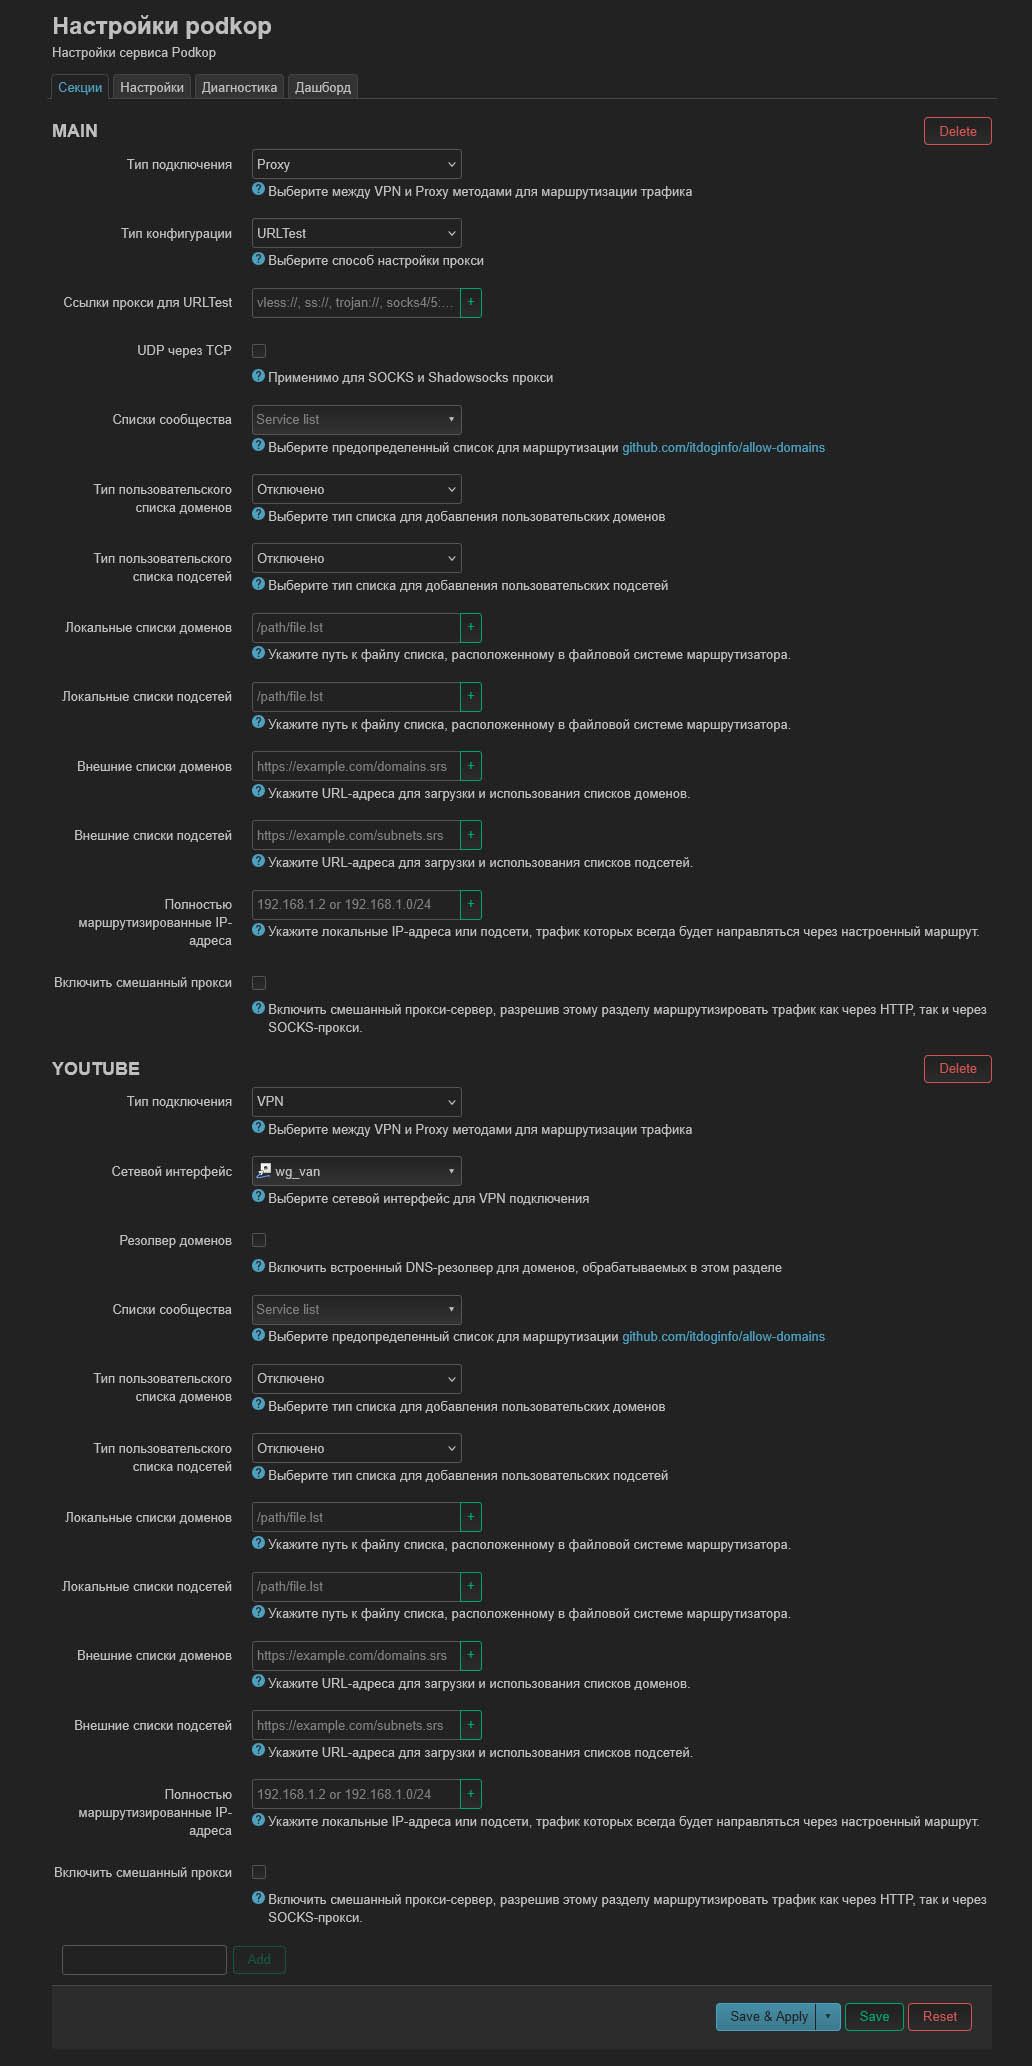
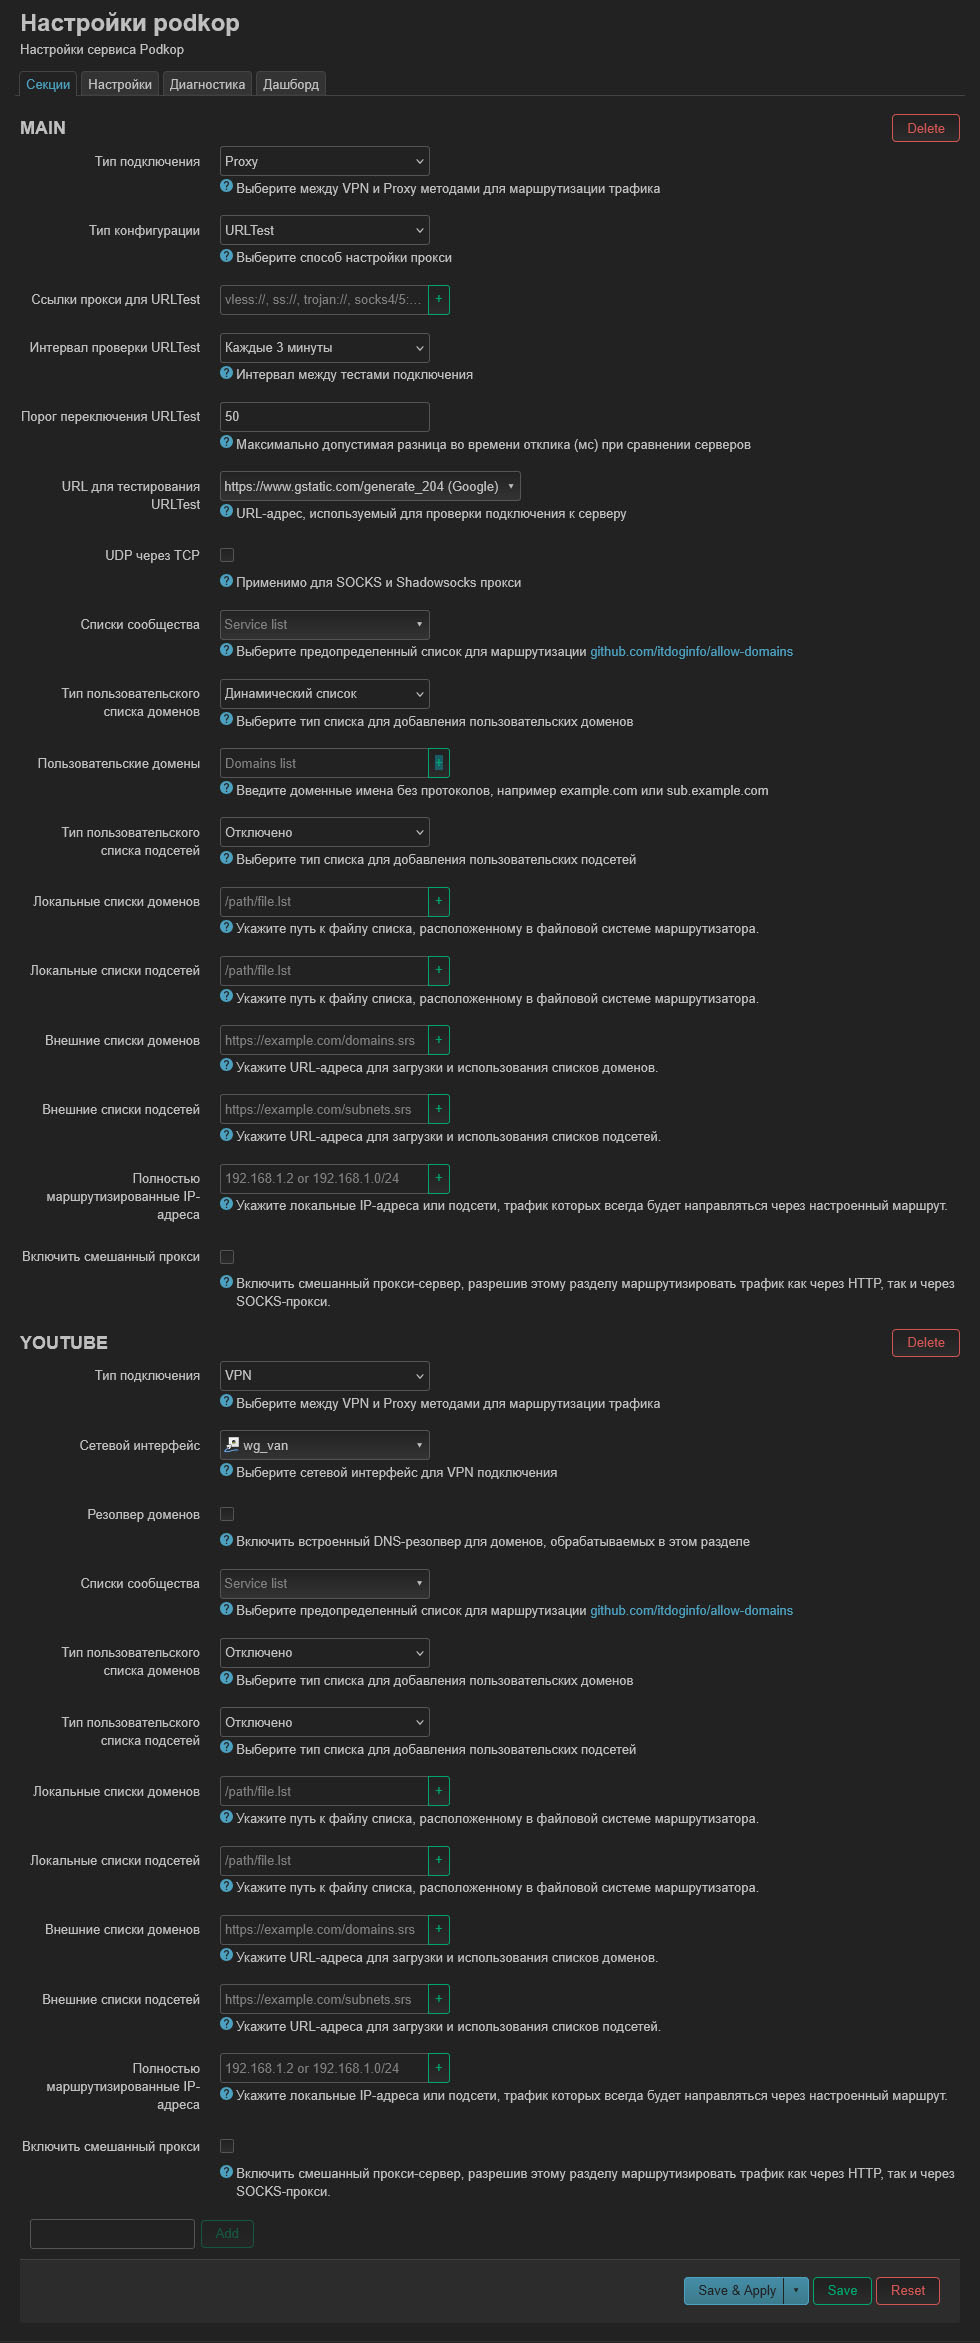
add urltest options

diff --git a/content/docs/sections/index.md b/content/docs/sections/index.md
@@ -47,6 +47,9 @@ config section 'wg'
 
 В этом режиме сейчас поддерживаются следующие протоколы: `VLESS`, `Shadowsocks`, `Trojan` и `Socks` 4й и 5й версии.
 
+При выбранном режиме `Proxy` доступна еще одна настройка - **UDP over TCP**,которая используется для передачи UDP-пакетов в TCP соединении. Если UDP заблокирован, а TCP - нет, то данная опция может помочь.
+Возможно использовать с `Shadowsocks` и `Socks5`.
+
 Доступно три варианта настройки:
 
 - **URL подключения | Connection URL**
@@ -56,8 +59,6 @@ config section 'wg'
 > [!NOTE]
 > Если ваша строка не поддерживается, пришлите пример строки (без чувствительных данных) и конфигурацию inbound для `Xray` или `sing-box` в чат, чтобы мы могли воспроизвести и протестировать эту конфигурацию. Также вы можете использовать кастомный outbound.
 
-При выбранном режиме `Proxy` доступна еще одна настройка - **UDP over TCP**,которая используется для передачи UDP-пакетов в TCP соединении. Если UDP заблокирован, а TCP - нет, то данная опция может помочь.
-Возможно использовать с `Shadowsocks` и `Socks5`.
 
 По-умолчанию для `Shadowsocks` отключена функция `UDP over TCP`. Включается с помощью этой галочки. Может быть полезна пользователям `Outline`. 
 
@@ -69,12 +70,35 @@ config section 'wg'
 
 - **URLTest**
 
-Позволяет указать несколько ссылок `vless://  ss:// trojan:// socks(4|5)://`. В данном режиме `sing-box`  отправляет запрос к указанному серверу и измеряет скорость отклика, наличие ошибок и другие параметры соединения и на основании данных тестов выбирает сервер. В данный момент, при наличии нескольких действующих серверов, переключение произойдет только в случае если значение задержки текущего активного сервера больше другого на 50мс.
+Позволяет указать несколько ссылок `vless://  ss:// trojan:// socks(4|5)://`. В данном режиме `sing-box`  отправляет запрос к указанному серверу и измеряет скорость отклика, наличие ошибок и другие параметры соединения и на основании данных тестов выбирает сервер.
 
 Полезно использовать для резервирования: в случае если один из прокси станет недоступен, `sing-box` автоматически переключит ссылку на действующую.
 
+При выбранном режиме **URLTest** так же доступны дополнительные настройки:
+
+>[!Note]
+>Данные параметры могут не отрабатывать должным образом. Вы можете обратиться к [документации](https://sing-box.sagernet.org/configuration/outbound/urltest/) sing-box или в deepwiki, если вам захочется в этом разобраться.  
+
+  - **Интервал проверки URLTest | URLTest Check Interval**
+
+    Интервал между проверками отклика указанных вами серверов. По умолчанию используется значение 3м.
+
+  - **Порог переключения URLTest | URLTest Tolerance**
+
+    Значение задержки, которое используется `sing-box` при принятии решении о переключении на другой сервер.
+
+    Если разница задержки между действующим сервером и другим, указанным для URLTest, будет больше указанного здесь значения, `sing-box` переключит сервер.
+
+    По умолчанию используется значение 50мс.
+
+  - **URL для тестирования URLTest | URLTest Testing URL**
+
+    Адрес, который использует `sing-box` для тестирования соединения для указанных вами ссылок.
+
 <!-- Создать раздел Дашборда, если путь будет отличаться-исправить -->
 Вы можете вручную выбрать прокси, используя [dashboard](/docs/dashboard) или [yacd](/docs/yacd#ручное-переключение-прокси).
+
+
 
 #### VPN
 
